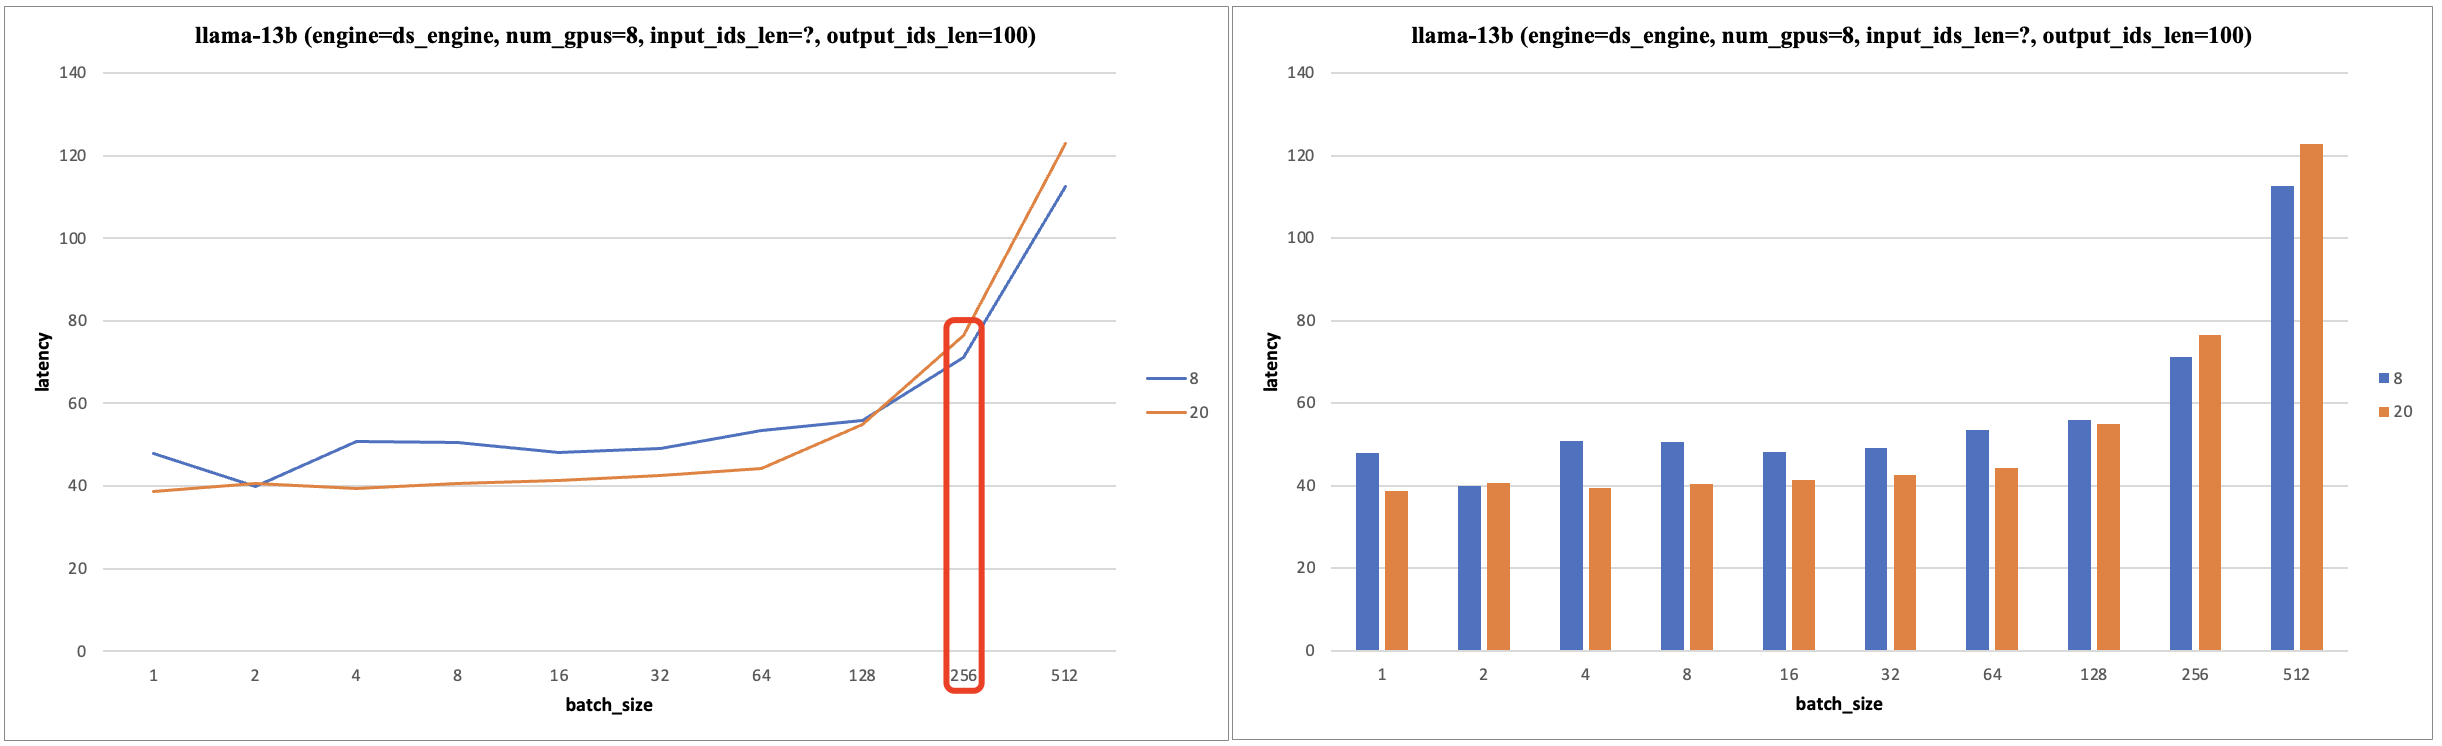
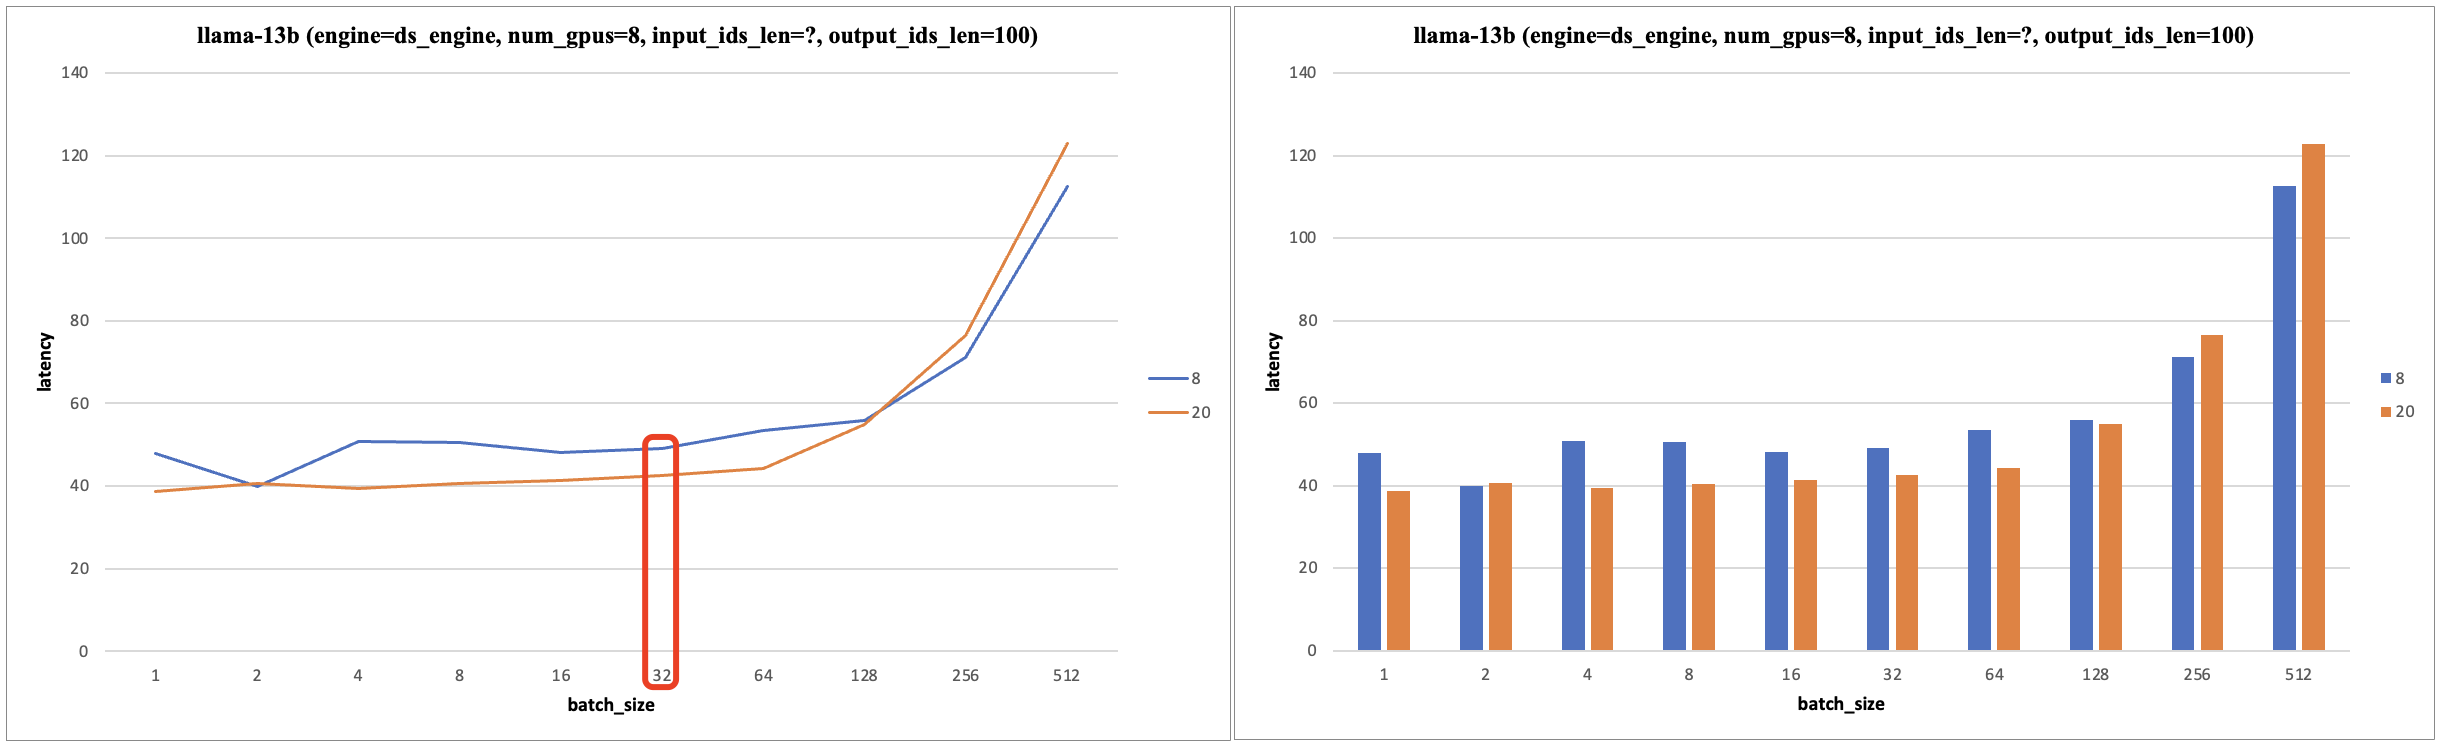
chore: optimize some details

diff --git a/5-model_deploy/英伟达GPU性能分析指导.md b/5-model_deploy/英伟达GPU性能分析指导.md
@@ -84,7 +84,7 @@ $$\frac{\text{\#ops}}{\#bytes} > \frac{\text{BW\_math}}{\text{BW\_mem}}$$
 - 右边是**处理器的数学带宽与内存带宽的比值**，有时被称为**操作：字节比率**（`ops:byte ratio`）。
 
 算术强度通俗理解就是计算量除以访存量后的值，表示此模型/网络层**在计算过程中，每 `Byte` 内存交换到底用于进行多少次浮点运算**，单位是 FLOPs/Byte。可以看到，**模型计算强度越大，其内存使用效率越高**。因此，对于给定的 gpu：
-- 如果算法的算术强度高于 gpu 的 `ops:byte ratio`，那么该算法在该处理器上是受数学限制的，也称 `math bound`，即**性能受算力 `FLOPS` 限制**。
+- 如果算法的算术强度高于 gpu 的 `ops:byte ratio`，那么该算法受算力限制的，也称 `math bound`，即**性能受算力 `FLOPS` 限制**。
 - 相反，如果算法的算术强度低于 gpu 的 `ops:byte ratio`，则该算法受内存限制，也称 `memory bound`，即**性能受内存带宽限制**。
 
 ![Figure 4: Roofline Model](../images/gpu_performance_basic/roof_line_model.png)
@@ -145,17 +145,20 @@ $$
 
 ![arithmetic-intensity](../images/gpu_performance_basic/arithmetic-intensity.svg)
 
-那么内存带宽限制和模型算力 FLOPS 限制会有什么影响呢？
+那么内存带宽限制和算力 FLOPS 限制会有什么影响呢？
 
-以 A100 GPU 为例，该硬件的字节比例是 $208$（V100 是 $138.9$），这意味着如果我们计算一个 token 的 `kv` 值，与计算多达 `208` 个 token 的时间将是相同的！即低于这个数，会受到内存带宽的限制；高于这个数，我们会受到算力 `FLOPS` 的限制。
+以 A100 GPU 为例，该硬件的操作:字节比例是 $208$（V100 是 $138.9$），这意味着如果我们计算一个 token 的 `kv` 值，与计算多达 `208` 个 token 的时间几乎是相同的！即低于这个数，会受到内存带宽的限制；高于这个数，我们会受到算力 `FLOPS` 的限制。
 
-在实际场景中，我们可以通过 `batch_size` 来控制模型的算术强度，从而控制模型是受到内存带宽限制还是算力 `FLOPS` 限制。从经验上看，因为有着 `kv` cache 的存在，模型的算术强度和 batch_size 并不完全成正比，且从实验测试结果看，**使用 8 个 V100 硬件做模型推理（张量并行），输入长度固定，在 batch_size < 一定值内，其 latency 不会变**。
+在实际场景中，我们可以通过 `batch_size` 来控制模型的算术强度，从而控制模型是受到内存带宽限制还是算力 `FLOPS` 限制。从经验上看，因为有着 `kv` cache 的存在，模型的算术强度和 batch_size 并不完全成正比.
 
+在 batch_size = 1 的情况下，权重为 `fp16` 的 decoder-only 模型推理时的算术强度是约为 $2$。**随着 batch_size 的增加，模型的算术强度会随之增加**，因为 flops 和 batch_size 是成正比的，而内存访问字节数中只有 kv cache 部分是和 batch_size 成正比的，且模型权重所访问内存是固定值。
+
+对于自回归模型的推理来说就是，**固定 seq_len**， 如果 seq_len * bs < ops:byte ratio * gpu_num，即**小 `batch_size` 范围 的 latency 不明显增加的**。从实验测试结果看，**使用 4/8 个 V100 硬件做模型推理（张量并行），输入长度固定，在 batch_size < 16/32，其 latency 不明显增加**。
+
+理论分析：**固定 seq_len**，batch_size 较小时，模型的算术强度较低，模型受到内存带宽限制，`Latency` 取决于内存搬运时间，而 `batch_size ` 较小时，kv cache 读写时间也较小，而模型权重读取时间又是固定的，故 latency 不明显增加；当 batch_size 增加到一定程度，模型的算术强度增加，模型受到算力 `FLOPS` 限制，故此时 `Latency` 与 batch_size 几乎成正比。
+
+![bs_latency2](../images/gpu_performance_basic/bs_latency2.png)
 ![bs_latency](../images/gpu_performance_basic/bs_latency.png)
-
-在 batch_size = 1 的情况下，权重为 `fp16` 的 decoder-only 模型推理时的算术强度是约为 $2$。**随着 batch_size 的增加，模型的算术强度会随之增加**，因为 flops 和 batch_size 是成正比的，而内存访问字节数中只有 kv cache 部分是和 batch_size 成正比的，模型权重所访问内存是固定值。
-
-**对于自回归模型来说就是，固定 seq_len， 如果 seq_len * bs < 操作：字节比率（随硬件而定），则这个范围内 的 batch_size 的 latency 是几乎不变的**。
 
 ## 五，DNN 操作类别 
 

diff --git a/5-model_deploy/大型语言模型部署/Transformer性能分析理论基础.md b/5-model_deploy/大型语言模型部署/Transformer性能分析理论基础.md
@@ -381,15 +381,19 @@ $$\text{memory\_kv-cache} = b(s+o)h*n * 2*2 = 4bnh(s+o)$$
 
 参考 ppt: [《Introduction to the Roofline Model》](https://www.nersc.gov/assets/Uploads/Tutorial-ISC2019-Intro-v2.pdf)
 
+![roofline_time](../../images/decoder-only-profiling/roofline_time.png)
+
 ### 6.2，推理 Latency 估算
 
 对于小 `batch` 的模型推理，单个 token 的推理 `latency` 受限于 gpu 的内存带宽；对于大 `batch`，单个 token 的推理 `latency` 受限于 gpu 的算力，同时将忽略卡与卡之间的通信延迟因素。
 
 本章 Latency 的计算忽略了**预填充阶段**中计算和**读取 kv cache 的时间、读取 unembedding vector 并计算 logits 的时间**。预填充阶段对应的就是生成第一个 `token` 的过程，这个时候需要计算 `kv cache`，所以第一个 `token` 的 `latency` 会比后面的 `token` 大很多。
 
-模型推理的**解码阶段** Latency 的理论计算公式如下所示：
+对于自回归模型的推理来说就是，**固定 seq_len**， 如果 seq_len * bs < ops:byte ratio * gpu_num，即**小 `batch_size` 范围 的 latency 不明显增加的**。
 
-1，小 batch：
+且模型推理的**解码阶段** Latency 的理论计算公式如下所示：
+
+1，前提：**内存读取时间 > 计算时间**，一般是小 batch：
 
 $$
 \begin{align}
@@ -398,7 +402,7 @@ $$
 \end{align}
 $$
 
-2，大 batch：
+2，前提：内存读取时间 < 计算时间，一般是大 batch：
 
 $$
 \begin{align}
